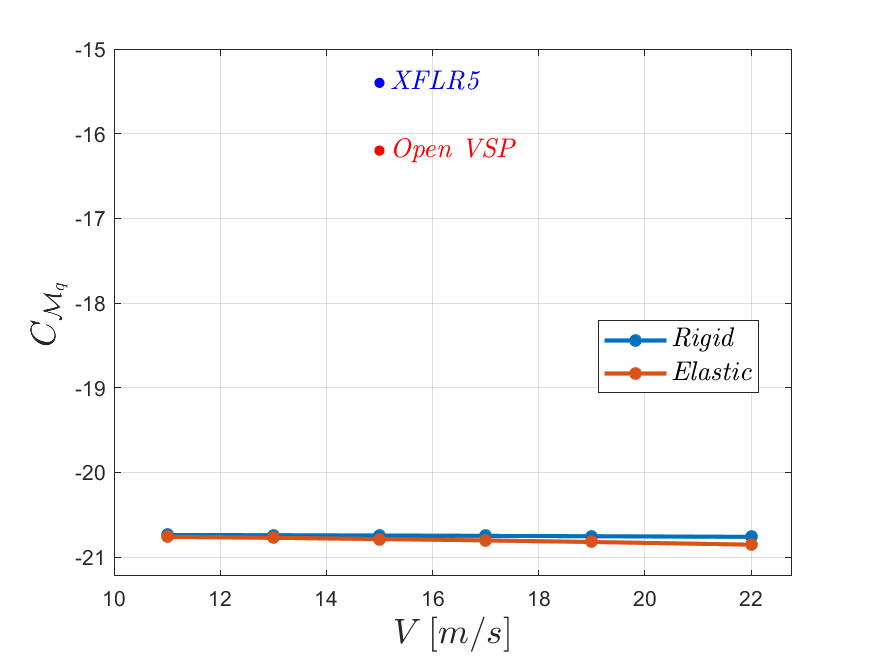
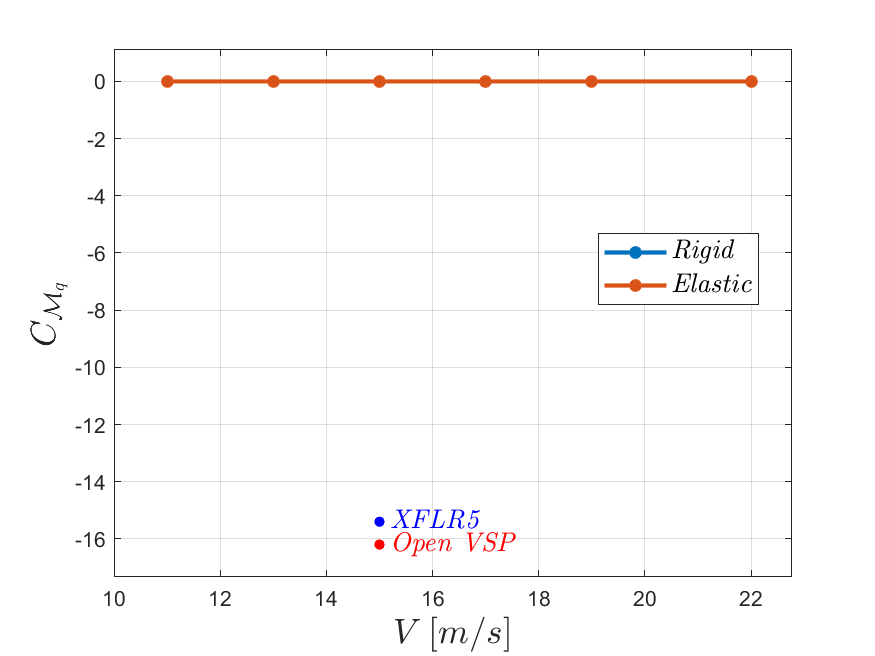
prova con full_ld

diff --git a/ANALYSIS RESULTS/Stability_derivatives.m b/ANALYSIS RESULTS/Stability_derivatives.m
@@ -1,17 +1,18 @@
 close all; clearvars; clc;
 
 % name_file_f06 = 'test_long_15_definitive_cases.f06';
-%name_file_f06 = 'full_long.f06';
+% name_file_f06 = 'full_long.f06';
 %name_file_f06 = 'test_fusoliera.f06';
 %name_file_f06 = 'lat_dir_half_model.f06'; NON VA
-name_file_f06 = 'full_coupled.f06';
+% name_file_f06 = 'full_coupled.f06';
+name_file_f06 = 'full_ld.f06';
 
 subcases = 6;
 SD = get_stability_derivatives(name_file_f06, subcases);
 
 %% PLOTS
 velocity_vector=[11,13,15,17,19,22];
-%velocity_vector=[15];
+% velocity_vector=[15];
 
 line_width = 2;
 fontsize_label = 17;
@@ -263,7 +264,7 @@ while ~feof(file) && n<=subcases
                 SD.ra(:,:,n) = get_matrix(currentLine,file);
             elseif currentLine(1:23) == '    EL               CX'
                 SD.el(:,:,n) = get_matrix(currentLine,file);
-                
+                n = n+1;
             elseif currentLine(1:23) == '    ANGLEA           CX'
                 SD.anglea(:,:,n) = get_matrix(currentLine,file);
             elseif currentLine(1:23) == '    PITCH            CX'
@@ -274,7 +275,6 @@ while ~feof(file) && n<=subcases
                 SD.ru(:,:,n) = get_matrix(currentLine,file);
             elseif currentLine(1:23) == '    URDD5            CX'
                 SD.urdd5(:,:,n) = get_matrix(currentLine,file);
-                
             elseif currentLine(1:23) == '    LA               CX'
             SD.la(:,:,n) = get_matrix(currentLine,file);
             elseif currentLine(1:23) == '    LU               CX'
@@ -291,7 +291,6 @@ while ~feof(file) && n<=subcases
             SD.urdd4(:,:,n) = get_matrix(currentLine,file);
             elseif currentLine(1:23) == '    URDD6            CX'
             SD.urdd6(:,:,n) = get_matrix(currentLine,file);
-            n = n+1;
             end
         end
 
